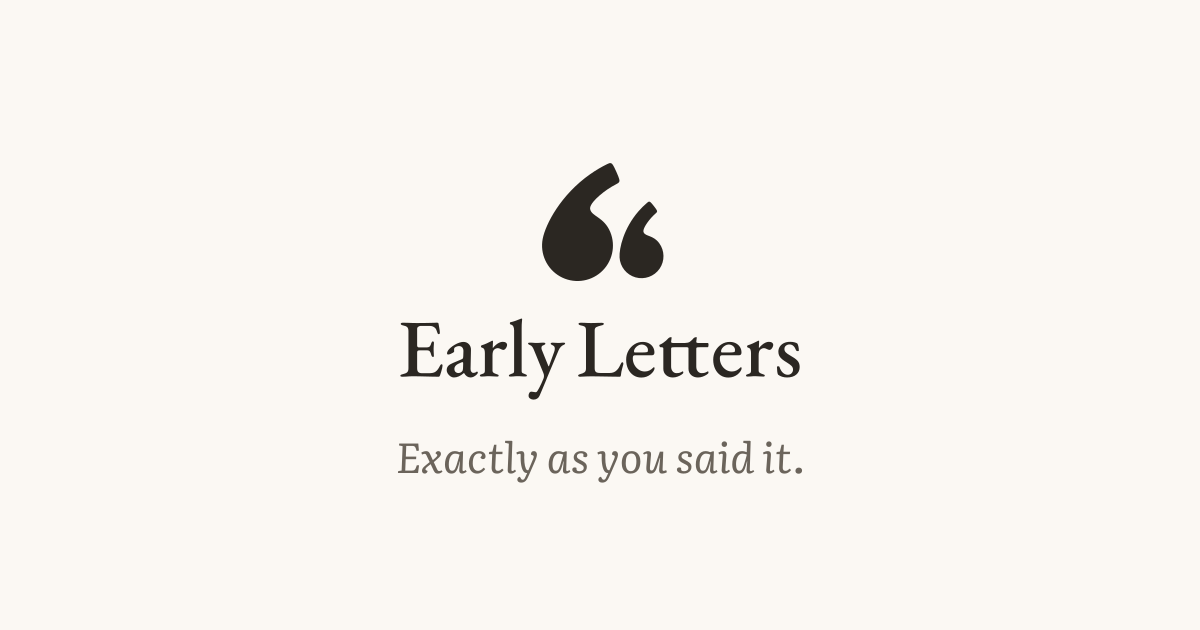
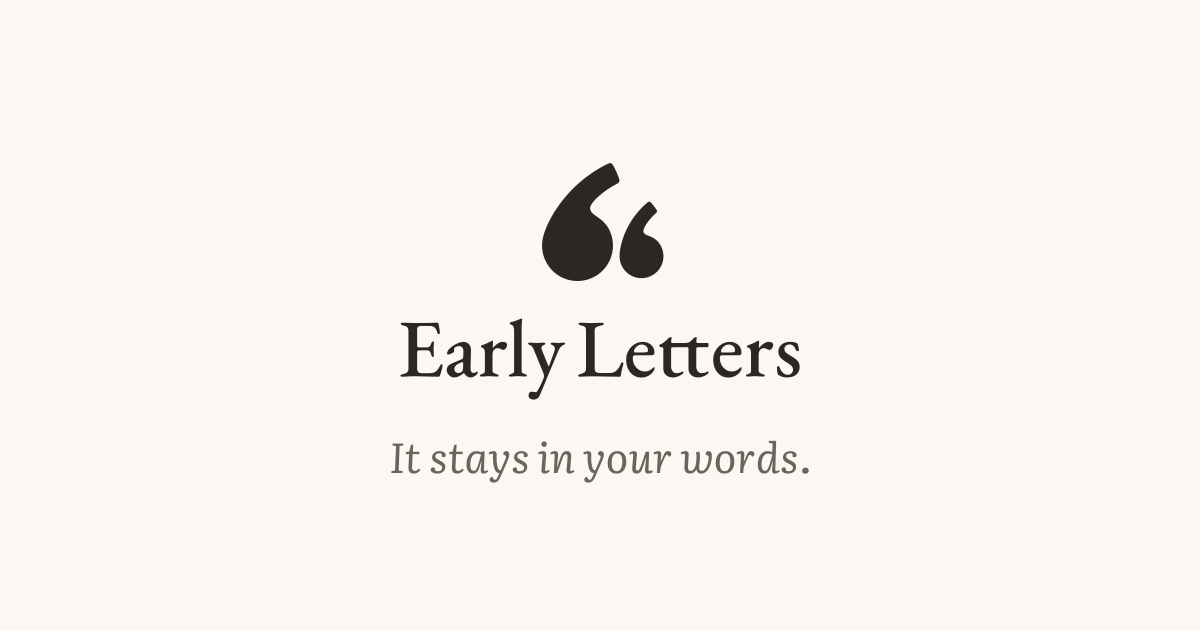
chore(brand): the public tagline is "It stays in your words." (D-133)
The old line said the words stay exactly as spoken, which is not true: the app removes ums and repeats and adds punctuation. Council ruling Q6 (docs/exec-rulings-claims-trust-2026-11-01.md) and the founder chose the short true line.

- packages/brand/index.ts tagline; packages/content strings.en.ts app.tagline; README line.
- Share image apps/web/public/og/og-image.png (registry og.image) regenerated with the new line; its lock pin (bytes, sha256) moved in web-assets.json. OG and Twitter alt text derive from brand.tagline.

Claude-Session: https://claude.ai/code/session_01Lk46zu5prXo6qgrrjf6TQ3

Changed region(s): [[0.3083, 0.6937, 0.6783, 0.754]]

diff --git a/packages/brand/index.ts b/packages/brand/index.ts
@@ -38,7 +38,7 @@ export const brand = {
   storeName: 'Early Letters: Memory Book',
   /** App Store subtitle, max 30 characters. */
   subtitle: 'Baby memory book in your voice',
-  tagline: 'Exactly as you said it.',
+  tagline: 'It stays in your words.',
   /** Printed product naming pattern. */
   printTitle: (year: number) => `Early Letters: Year ${year === 1 ? 'One' : year === 2 ? 'Two' : year === 3 ? 'Three' : year}`,
   publisher,

diff --git a/packages/content/src/strings.en.ts b/packages/content/src/strings.en.ts
@@ -7,7 +7,7 @@ export const en = {
   app: {
     name: "Early Letters",
     category: "memory book",
-    tagline: "Exactly as you said it.",
+    tagline: "It stays in your words.",
     oneLine: "Early Letters, the memory book you fill by talking.",
   },
 

diff --git a/README.md b/README.md
@@ -1,6 +1,6 @@
 # Early Letters
 
-A baby memory book you fill by talking. Exactly as you said it.
+A baby memory book you fill by talking. It stays in your words.
 
 Parents and close family speak or type notes and letters to a child. The app transcribes on the phone, fixes only what the microphone or grammar got wrong, keeps the original recording, and files everything into a memory book by the child's month of age.
 
